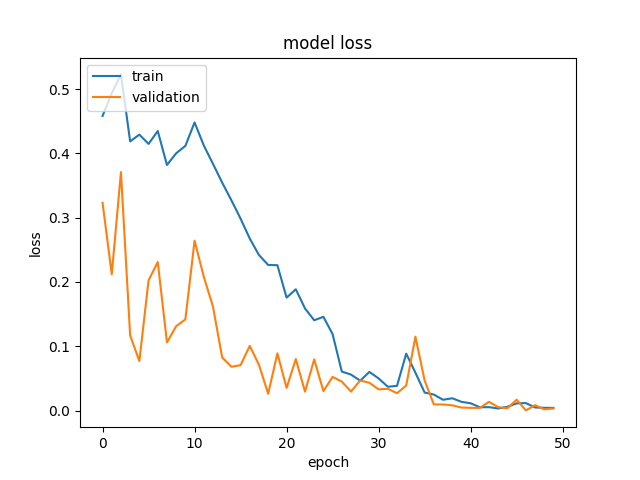
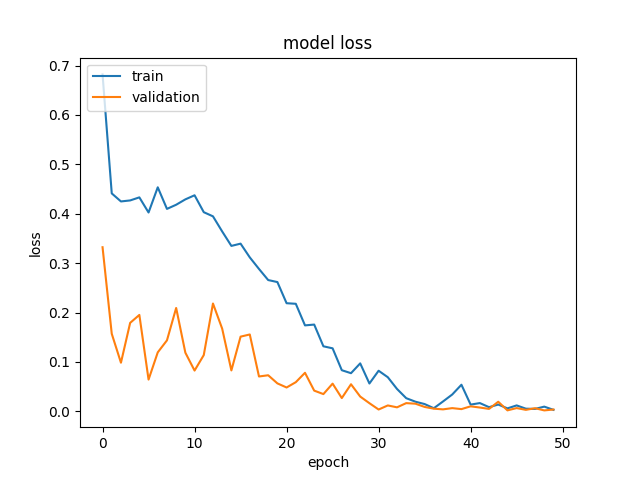
results for article 13

diff --git a/article13/train_model_edges_jaffe.py b/article13/train_model_edges_jaffe.py
@@ -55,10 +55,20 @@ labels_int = np.ones((num_of_samples,),dtype='int64')
 for label in labels:
     img_list=os.listdir(datapath+'/'+ label+'/')
     for i in range(len(img_list)):
-        if label == 'NEUTRAL':
+        if label == 'ANGRY':
             labels_int[i] = 0
-        else:
+        elif label == 'DISGUST':
             labels_int[i] = 1
+        elif label == 'FEAR':
+            labels_int[i] = 2
+        elif label == 'HAPPY':
+            labels_int[i] = 3
+        elif label == 'SAD':
+            labels_int[i] = 4
+        elif label == 'SURPRISE':
+            labels_int[i] = 5
+        elif label == 'NEUTRAL':
+            labels_int[i] = 6
     
 y = keras.utils.to_categorical(labels_int, num_classes)
 print(img_data.shape)
@@ -69,6 +79,7 @@ print(y.shape)
 def canny_edge(img):
     img = cv2.GaussianBlur(img, (5, 5), 0)
     img = cv2.Canny(img, 100, 200)
+    img = cv2.resize(img, (48, 48))
     return img
 
 img_data_edges = []
@@ -79,16 +90,44 @@ img_data_edges = img_data_edges.astype('float32')
 img_data_edges = img_data_edges/255
 img_data_edges.shape
 
+
 #split the data into train and test and validation
-x_train, x_test, y_train, y_test = train_test_split(img_data, y, test_size=0.2,shuffle=True, random_state=8)
-x_train, x_val, y_train, y_val = train_test_split(x_train, y_train, test_size=0.25, shuffle=True, random_state=8)
+x_edge_train, x_edge_test, y_edge_train, y_edge_test = train_test_split(img_data_edges, y, test_size=0.12,shuffle=True, random_state=8)
+x_edge_train, x_edge_val, y_edge_train, y_edge_val = train_test_split(x_edge_train, y_edge_train, test_size=0.12, shuffle=True, random_state=8)
+
+#split the data into train and test and validation
+x_train, x_test, y_train, y_test = train_test_split(img_data, y, test_size=0.12,shuffle=True, random_state=8)
+x_train, x_val, y_train, y_val = train_test_split(x_train, y_train, test_size=0.12, shuffle=True, random_state=8)
 
 
 IMAGE_SIZE = [48,48]
 
-model = keras.Sequential(
+# create model with z-score normalization
+model_image = keras.Sequential(
     [
         keras.Input(shape=(48,48,1)),
+        #z-score normalization
+        
+        layers.Conv2D(32, kernel_size=(3, 3), activation="relu"),
+        layers.MaxPooling2D(pool_size=(2, 2)),
+        layers.Conv2D(64, kernel_size=(3, 3), activation="relu"),
+        layers.MaxPooling2D(pool_size=(2, 2)),
+        layers.Conv2D(128, kernel_size=(3, 3), activation="relu"),
+        layers.MaxPooling2D(pool_size=(2, 2)),
+        layers.Flatten(),
+        layers.Dense(128, activation="relu"),
+        layers.Dense(7, activation="softmax"),
+    ]
+)
+
+model_image.compile(loss="categorical_crossentropy", optimizer="adam", metrics=["accuracy"])
+
+
+model_edges = keras.Sequential(
+    [
+        keras.Input(shape=(48,48,1)),
+        #z-score normalization
+
         layers.Conv2D(16, kernel_size=(3, 3), activation="relu"),
         layers.MaxPooling2D(pool_size=(2, 2)),
         layers.Conv2D(16, kernel_size=(3, 3), activation="relu"),
@@ -101,39 +140,45 @@ model = keras.Sequential(
     ]
 )
 
-#set all layers to not trainable
+#compile the model
+model_edges.compile(loss="categorical_crossentropy", optimizer="adam", metrics=["accuracy"])
+model_edges.summary()
+
+#connect the two models with a fully connected layer
+combinedInput = layers.concatenate([model_image.output, model_edges.output])
+x = layers.Dense(64, activation="relu")(combinedInput)
+x = layers.Dense(num_classes, activation="softmax")(x)
+model = keras.Model(inputs=[model_image.input, model_edges.input], outputs=x)
+
+#trainable true for all layers
 for layer in model.layers:
     layer.trainable = True
-#set layers max pool to not trainable
-model.layers[2].trainable = False
-model.layers[4].trainable = False
-model.layers[6].trainable = False
 
-
-#compile the model
 model.compile(loss="categorical_crossentropy", optimizer="adam", metrics=["accuracy"])
 model.summary()
 
+
 #train the model
-history = model.fit(x_train, y_train, batch_size=4, epochs=150, validation_split=0.1)
+history = model.fit([x_train,x_edge_train], y_train, batch_size=4, epochs=150, validation_data=([x_val,x_edge_val], y_val))
+
 
 #save the model
 model.save('../../model_edges_jaffe.h5')
 
 #evaluate the model
-score = model.evaluate(x_test, y_test, verbose=0)
-print("Test loss:", score[0])
-print("Test accuracy:", score[1])
+score = model.evaluate([x_test,x_edge_test], y_test, verbose=0)
+print('Test loss:', score[0])
+print('Test accuracy:', score[1])
 
 #print train accuracy
-score = model.evaluate(x_train, y_train, verbose=0)
-print("Train loss:", score[0])
-print("Train accuracy:", score[1])
+score = model.evaluate([x_train,x_edge_train], y_train, verbose=0)
+print('Train loss:', score[0])
+print('Train accuracy:', score[1])
 
 #print validation accuracy
-score = model.evaluate(x_val, y_val, verbose=0)
-print("Validation loss:", score[0])
-print("Validation accuracy:", score[1])
+score = model.evaluate([x_val,x_edge_val], y_val, verbose=0)
+print('Validation loss:', score[0])
+print('Validation accuracy:', score[1])
 
 
 #plot the accuracy and loss
@@ -158,10 +203,12 @@ plt.legend(['train', 'validation'], loc='upper left')
 #save
 plt.savefig('loss_edges_jaffe.png')
 
-#Test loss: 2.411907189525664e-07
-#Test accuracy: 1.0
-#Train loss: 1.5300076938729035e-07
-#Train accuracy: 1.0
-#Validation loss: 1.6356617038582044e-07
-#Validation accuracy: 1.0
+#Test loss: 0.829822301864624
+#Test accuracy: 0.8846153616905212
+#Train loss: 0.017270904034376144
+#Train accuracy: 0.9939024448394775
+#Validation loss: 0.28300970792770386
+#Validation accuracy: 0.95652174949646
+
+
 

diff --git a/article13/train_model_edges_fer.py b/article13/train_model_edges_fer.py
@@ -89,13 +89,35 @@ img_data_edges = img_data_edges/255
 img_data_edges.shape
 
 #split the data into train and test and validation
-x_train, x_test, y_train, y_test = train_test_split(img_data_edges, y, test_size=0.12,shuffle=True, random_state=8)
+x_edge_train, x_edge_test, y_edge_train, y_edge_test = train_test_split(img_data_edges, y, test_size=0.12,shuffle=True, random_state=8)
+x_edge_train, x_edge_val, y_edge_train, y_edge_val = train_test_split(x_edge_train, y_edge_train, test_size=0.12, shuffle=True, random_state=8)
+
+#split the data into train and test and validation
+x_train, x_test, y_train, y_test = train_test_split(img_data, y, test_size=0.12,shuffle=True, random_state=8)
 x_train, x_val, y_train, y_val = train_test_split(x_train, y_train, test_size=0.12, shuffle=True, random_state=8)
 
 
 IMAGE_SIZE = [48,48]
 
-model = keras.Sequential(
+model_image = keras.Sequential(
+    [
+        keras.Input(shape=(48,48,1)),
+        layers.Conv2D(64, kernel_size=(3, 3), activation="relu"),
+        layers.MaxPooling2D(pool_size=(2, 2)),
+        layers.Conv2D(64, kernel_size=(3, 3), activation="relu"),
+        layers.MaxPooling2D(pool_size=(2, 2)),
+        layers.Conv2D(128, kernel_size=(3, 3), activation="relu"),
+        layers.MaxPooling2D(pool_size=(2, 2)),
+        layers.Flatten(),
+        layers.Dropout(0.5),
+        layers.Dense(num_classes, activation="softmax"),
+    ]
+)
+
+model_image.compile(loss="categorical_crossentropy", optimizer="adam", metrics=["accuracy"])
+
+
+model_edges = keras.Sequential(
     [
         keras.Input(shape=(48,48,1)),
         layers.Conv2D(16, kernel_size=(3, 3), activation="relu"),
@@ -109,37 +131,47 @@ model = keras.Sequential(
         layers.Dense(num_classes, activation="softmax"),
     ]
 )
+
+#compile the model
+model_edges.compile(loss="categorical_crossentropy", optimizer="adam", metrics=["accuracy"])
+model_edges.summary()
+
+#connect the two models with a fully connected layer
+combinedInput = layers.concatenate([model_image.output, model_edges.output])
+x = layers.Dense(64, activation="relu")(combinedInput)
+x = layers.Dense(num_classes, activation="softmax")(x)
+model = keras.Model(inputs=[model_image.input, model_edges.input], outputs=x)
+
+#trainable true
 for layer in model.layers:
     layer.trainable = True
-#set max pool layers to not trainable
-model.layers[2].trainable = False
-model.layers[4].trainable = False
-model.layers[6].trainable = False
 
 #compile the model
 model.compile(loss="categorical_crossentropy", optimizer="adam", metrics=["accuracy"])
 model.summary()
 
-#train the model
-history = model.fit(x_train, y_train, batch_size=4, epochs=150, validation_split=0.1)
+#train the model edge and image
+history = model.fit([x_train,x_edge_train], y_train, batch_size=4, epochs=150, validation_data=([x_val,x_edge_val], y_val))
+#history = model.fit(x_train, y_train, batch_size=4, epochs=150, validation_split=0.1)
 
 #save the model
 model.save('../../model_edges_fer.h5')
 
 #evaluate the model
-score = model.evaluate(x_test, y_test, verbose=0)
-print("Test loss:", score[0])
-print("Test accuracy:", score[1])
+score = model.evaluate([x_test,x_edge_test], y_test, verbose=0)
+print('Test loss:', score[0])
+print('Test accuracy:', score[1])
+
 
 #print train accuracy
-score = model.evaluate(x_train, y_train, verbose=0)
-print("Train loss:", score[0])
-print("Train accuracy:", score[1])
+score = model.evaluate([x_train,x_edge_train], y_train, verbose=0)
+print('Train loss:', score[0])
+print('Train accuracy:', score[1])
 
 #print validation accuracy
-score = model.evaluate(x_val, y_val, verbose=0)
-print("Validation loss:", score[0])
-print("Validation accuracy:", score[1])
+score = model.evaluate([x_val,x_edge_val], y_val, verbose=0)
+print('Validation loss:', score[0])
+print('Validation accuracy:', score[1])
 
 #plot accuracy and loss
 plt.plot(history.history['accuracy'])
@@ -162,9 +194,9 @@ plt.legend(['train', 'validation'], loc='upper left')
 #save the plot
 plt.savefig('loss_edges_fer.png')
 
-#Test loss: 0.8218222856521606
-#Test accuracy: 0.7529603242874146
-#Train loss: 0.8005245923995972
-#Train accuracy: 0.749730110168457
-#Validation loss: 0.8341816067695618
+#Test loss: 0.8370544910430908
+#Test accuracy: 0.7527281045913696
+#Train loss: 0.8434661030769348
+#Train accuracy: 0.7494422197341919
+#Validation loss: 0.8504571914672852
 #Validation accuracy: 0.7464379668235779

diff --git a/article13/train_model_image_jaffe.py b/article13/train_model_image_jaffe.py
@@ -52,10 +52,20 @@ labels_int = np.ones((num_of_samples,),dtype='int64')
 for label in labels:
     img_list=os.listdir(datapath+'/'+ label+'/')
     for i in range(len(img_list)):
-        if label == 'NEUTRAL':
+        if label == 'ANGRY':
             labels_int[i] = 0
-        else:
+        elif label == 'DISGUST':
             labels_int[i] = 1
+        elif label == 'FEAR':
+            labels_int[i] = 2
+        elif label == 'HAPPY':
+            labels_int[i] = 3
+        elif label == 'SAD':
+            labels_int[i] = 4
+        elif label == 'SURPRISE':
+            labels_int[i] = 5
+        elif label == 'NEUTRAL':
+            labels_int[i] = 6
     
 y = keras.utils.to_categorical(labels_int, num_classes)
 print(img_data.shape)
@@ -86,10 +96,6 @@ model = keras.Sequential(
 #set all layers to not trainable
 for layer in model.layers:
     layer.trainable = True
-#set layers max pool to not trainable
-model.layers[2].trainable = False
-model.layers[4].trainable = False
-model.layers[6].trainable = False
 
 #compile the model
 model.compile(loss="categorical_crossentropy", optimizer="adam", metrics=["accuracy"])
@@ -138,11 +144,12 @@ plt.legend(['train', 'validation'], loc='upper left')
 #save
 plt.savefig('loss_image_jaffe.png')
 
-#Test loss: 2.0792307964256906e-07
-#Test accuracy: 1.0
-#Train loss: 1.0700668440222216e-07
-#Train accuracy: 1.0
-#Validation loss: 1.2475386768073804e-07
-#Validation accuracy: 1.0
+#Test loss: 1.2013652324676514
+#Test accuracy: 0.930232584476471
+#Train loss: 0.07405254989862442
+#Train accuracy: 0.9921259880065918
+#Validation loss: 0.6574267745018005
+#Validation accuracy: 0.930232584476471
+
 
 

diff --git a/lucia/train_model_fer.py b/lucia/train_model_fer.py
@@ -58,7 +58,7 @@ for label in labels:
         else:
             labels_int[i] = 1
 
-y = keras.utils.to_categorical(labels_int, num_classes)
+y = keras.utils.to_categorical(labels_int, num_classes) 
 print(img_data.shape)
 print(y.shape)
 
@@ -69,9 +69,9 @@ x_train, x_val, y_train, y_val = train_test_split(x_train, y_train, test_size=0.
 
 IMAGE_SIZE = [48,48]
 
-model = keras.Sequential(
+model = keras.Sequential(  
     [
-        keras.Input(shape=(48,48,1)),
+        keras.Input(shape=(48,48,1)),  
         layers.Conv2D(64, kernel_size=(3, 3), activation="relu"),
         layers.MaxPooling2D(pool_size=(2, 2)),
         layers.Conv2D(64, kernel_size=(3, 3), activation="relu"),

diff --git a/article13/train_model_image_fer.py b/article13/train_model_image_fer.py
@@ -95,9 +95,6 @@ model = keras.Sequential(
 for layer in model.layers:
     layer.trainable = True
 #set max pool layers to not trainable
-model.layers[2].trainable = False
-model.layers[4].trainable = False
-model.layers[6].trainable = False
 
 #compile the model
 model.compile(loss="categorical_crossentropy", optimizer="adam", metrics=["accuracy"])
